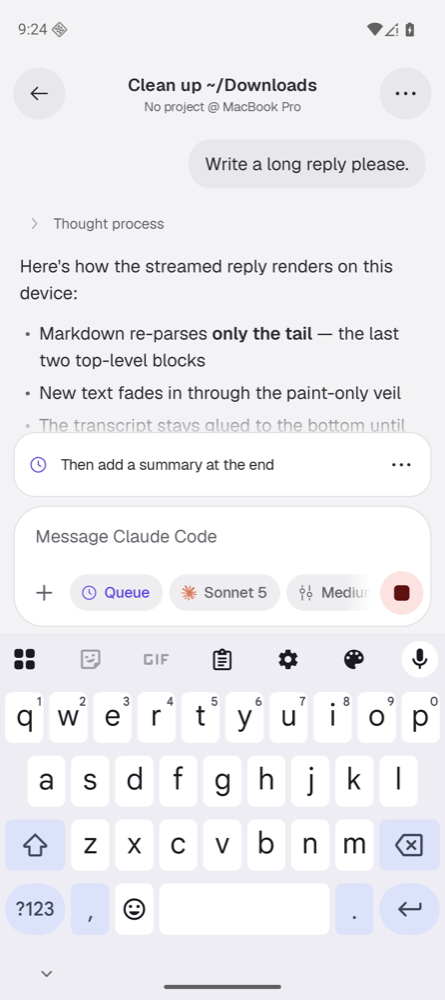
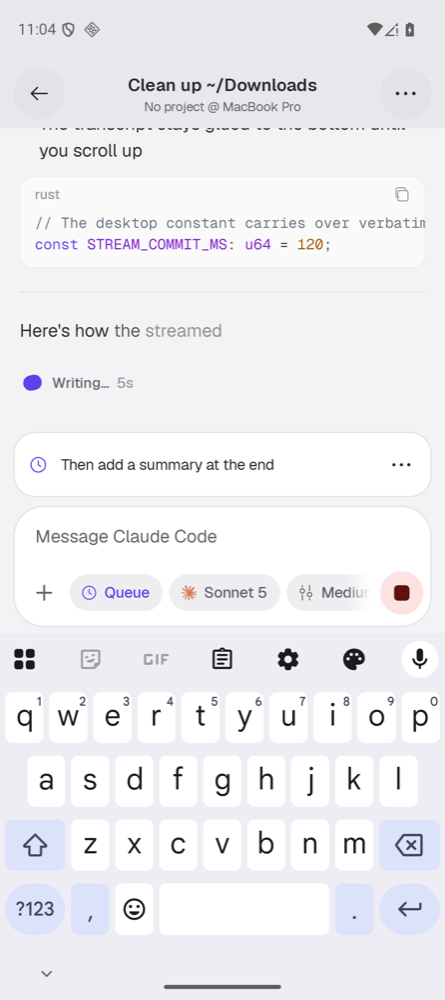
Android: flat session chrome, per-chunk streaming veil
- The transcript ends where the composer begins: no gradient scrim, no
  text streaming behind the composer (the runway's viewport was the full
  height, so reply tails ran under it, faded and cramped).
- Header is a flat Material top app bar that takes the container tone
  once content scrolls under it, instead of a gradient cut-off.
- Jump to latest is a small FAB floating over the transcript.
- Streaming veil: each inserted chunk fades on its own clock, found by a
  prefix+suffix diff (list rows carry their bullet after the item text,
  so the old prefix check skipped the veil and words popped in); chunks
  are recorded during composition so new text is never drawn opaque
  first.

diff --git a/apps/android/app/src/main/java/sh/zeron/android/ui/SessionScreen.kt b/apps/android/app/src/main/java/sh/zeron/android/ui/SessionScreen.kt
@@ -10,6 +10,9 @@ import androidx.compose.animation.fadeOut
 import androidx.compose.animation.scaleIn
 import androidx.compose.animation.scaleOut
 import androidx.compose.foundation.layout.Box
+import androidx.compose.foundation.shape.CircleShape
+import androidx.compose.animation.animateColorAsState
+import sh.zeron.android.design.ZIcon
 import androidx.compose.foundation.layout.Row
 import androidx.compose.foundation.layout.WindowInsets
 import androidx.compose.foundation.layout.asPaddingValues
@@ -42,6 +45,8 @@ import androidx.compose.material3.MaterialTheme
 import androidx.compose.material3.ModalBottomSheet
 import androidx.compose.material3.Scaffold
 import androidx.compose.material3.SmallFloatingActionButton
+import androidx.compose.material3.Surface
+import androidx.compose.foundation.layout.size
 import androidx.compose.material3.Text
 import androidx.compose.material3.TopAppBar
 import androidx.compose.material3.TopAppBarDefaults
@@ -142,64 +147,61 @@ fun SessionScreen(model: AppModel, chatId: String, onBack: () -> Unit) {
     var overflow by remember { mutableStateOf(false) }
     val clipboard = LocalClipboardManager.current
 
-    Box(Modifier.fillMaxSize().background(MaterialTheme.colorScheme.background)) {
-        val density = LocalDensity.current
-        val top = WindowInsets.statusBars.asPaddingValues().calculateTopPadding() + 64.dp
-        Transcript(transcript, actions, Modifier.fillMaxSize().padding(top = top))
-        // Round tonal controls over a scrim, the title centered between them.
-        Row(
-            Modifier
-                .fillMaxWidth()
-                .background(Brush.verticalGradient(0.7f to MaterialTheme.colorScheme.background, 1f to Color.Transparent))
-                .statusBarsPadding()
-                .padding(horizontal = 12.dp, vertical = 8.dp),
-            verticalAlignment = Alignment.CenterVertically,
-        ) {
-            TonalCircleButton(ZIcons.Back, "Back", onClick = onBack)
-            Column(Modifier.weight(1f).padding(horizontal = 12.dp), horizontalAlignment = Alignment.CenterHorizontally) {
-                Text(composer.title, maxLines = 1, overflow = TextOverflow.Ellipsis, style = MaterialTheme.typography.titleMediumEmphasized)
-                Text(subtitle, maxLines = 1, overflow = TextOverflow.Ellipsis, style = MaterialTheme.typography.bodySmall, color = MaterialTheme.colorScheme.onSurfaceVariant)
-            }
-            Box {
-                TonalCircleButton(ZIcons.More, "More", onClick = { overflow = true })
-                ActionMenu(
-                    overflow,
-                    { overflow = false },
-                    listOfNotNull(
-                        MenuAction("Copy transcript", ZIcons.Copy) { transcript.frame?.let { clipboard.setText(AnnotatedString(it.plainText())) } },
-                        row?.let { r -> MenuAction(if (r.pinned) "Unpin" else "Pin", ZIcons.Pin) { model.setPinned(chatId, !r.pinned) } },
-                        row?.let { MenuAction("Archive", ZIcons.Archive) { model.archive(chatId); onBack() } },
-                    ),
-                )
+    // Flat Material chrome: the header sits on the page and takes the
+    // container tone once the transcript scrolls under it; the transcript
+    // ends where the composer begins (nothing streams behind it).
+    val scrolled by remember { derivedStateOf { transcript.offset > 1f } }
+    val headerColor by animateColorAsState(
+        if (scrolled) MaterialTheme.colorScheme.surfaceContainerHigh else MaterialTheme.colorScheme.background,
+        MaterialTheme.motionScheme.defaultEffectsSpec(),
+        label = "header",
+    )
+    Column(Modifier.fillMaxSize().background(MaterialTheme.colorScheme.background)) {
+        Surface(color = headerColor) {
+            Row(
+                Modifier
+                    .fillMaxWidth()
+                    .statusBarsPadding()
+                    .padding(horizontal = 12.dp, vertical = 8.dp),
+                verticalAlignment = Alignment.CenterVertically,
+            ) {
+                TonalCircleButton(ZIcons.Back, "Back", onClick = onBack, container = MaterialTheme.colorScheme.surfaceContainerHighest)
+                Column(Modifier.weight(1f).padding(horizontal = 12.dp), horizontalAlignment = Alignment.CenterHorizontally) {
+                    Text(composer.title, maxLines = 1, overflow = TextOverflow.Ellipsis, style = MaterialTheme.typography.titleMediumEmphasized)
+                    Text(subtitle, maxLines = 1, overflow = TextOverflow.Ellipsis, style = MaterialTheme.typography.bodySmall, color = MaterialTheme.colorScheme.onSurfaceVariant)
+                }
+                Box {
+                    TonalCircleButton(ZIcons.More, "More", onClick = { overflow = true }, container = MaterialTheme.colorScheme.surfaceContainerHighest)
+                    ActionMenu(
+                        overflow,
+                        { overflow = false },
+                        listOfNotNull(
+                            MenuAction("Copy transcript", ZIcons.Copy) { transcript.frame?.let { clipboard.setText(AnnotatedString(it.plainText())) } },
+                            row?.let { r -> MenuAction(if (r.pinned) "Unpin" else "Pin", ZIcons.Pin) { model.setPinned(chatId, !r.pinned) } },
+                            row?.let { MenuAction("Archive", ZIcons.Archive) { model.archive(chatId); onBack() } },
+                        ),
+                    )
+                }
             }
         }
-        val bg = MaterialTheme.colorScheme.background
-        Column(
-            Modifier
-                .align(Alignment.BottomCenter)
-                .fillMaxWidth()
-                // The transcript fades out over a short band, then the chrome sits on solid background.
-                .drawBehind {
-                    val band = 28.dp.toPx()
-                    drawRect(Brush.verticalGradient(listOf(Color.Transparent, bg), startY = 0f, endY = band))
-                    drawRect(bg, topLeft = androidx.compose.ui.geometry.Offset(0f, band), size = androidx.compose.ui.geometry.Size(size.width, size.height - band))
-                }
-                .padding(top = 20.dp)
-                .imePadding()
-                .navigationBarsPadding()
-                .onSizeChanged { transcript.bottomInset = with(density) { it.height.toDp().value } + 8f },
-        ) {
+        Box(Modifier.weight(1f).fillMaxWidth()) {
+            Transcript(transcript, actions, Modifier.fillMaxSize())
             val showJump by remember { derivedStateOf { !transcript.following && transcript.distanceFromBottom > 400f } }
-            Box(Modifier.fillMaxWidth()) {
-                androidx.compose.animation.AnimatedVisibility(
-                    showJump,
-                    enter = fadeIn() + scaleIn(),
-                    exit = fadeOut() + scaleOut(),
-                    modifier = Modifier.align(Alignment.Center).padding(bottom = 8.dp),
-                ) {
-                    TonalCircleButton(ZIcons.ArrowDown, "Jump to latest", onClick = { transcript.scrollToBottom() }, size = 44.dp)
-                }
+            androidx.compose.animation.AnimatedVisibility(
+                showJump,
+                enter = fadeIn() + scaleIn(),
+                exit = fadeOut() + scaleOut(),
+                modifier = Modifier.align(Alignment.BottomCenter).padding(bottom = 12.dp),
+            ) {
+                SmallFloatingActionButton(
+                    onClick = { transcript.scrollToBottom() },
+                    shape = CircleShape,
+                    containerColor = MaterialTheme.colorScheme.surfaceContainerHigh,
+                    contentColor = MaterialTheme.colorScheme.onSurface,
+                ) { ZIcon(ZIcons.ArrowDown, "Jump to latest", Modifier.size(22.dp)) }
             }
+        }
+        Column(Modifier.fillMaxWidth().imePadding().navigationBarsPadding()) {
             Banner(composer, connectivity?.state, onRetry = { runCatching { handle.retryDelivery() } })
             composer.openInput?.let { QuestionPanel(it) { answers -> runCatching { handle.respondInput(it.requestId, answers) } } }
             Composer(model, core, handle, composer, row, transcript)

diff --git a/apps/android/app/src/main/java/sh/zeron/android/transcript/Transcript.kt b/apps/android/app/src/main/java/sh/zeron/android/transcript/Transcript.kt
@@ -34,6 +34,7 @@ import androidx.compose.runtime.derivedStateOf
 import androidx.compose.runtime.getValue
 import androidx.compose.runtime.key
 import androidx.compose.runtime.mutableStateOf
+import androidx.compose.runtime.mutableLongStateOf
 import androidx.compose.runtime.remember
 import androidx.compose.runtime.setValue
 import androidx.compose.runtime.snapshotFlow
@@ -215,20 +216,17 @@ private fun RowHost(
     val d = LocalDensity.current.density
     val fonts = state.fonts
 
-    // Streaming veil: freshly appended text fades in over the settled row.
-    val veil = remember(p.key) { Animatable(1f) }
-    var veilFrom by remember(p.key) { mutableStateOf(0) }
-    var previous by remember(p.key) { mutableStateOf<RowModel?>(null) }
+    // Streaming veil: each appended chunk fades in on its own clock, so a
+    // new token never restarts (or pops) the ones still fading. Chunks are
+    // recorded during composition — before the new text is ever drawn.
+    val veil = remember(p.key) { Veil() }
+    remember(model) { veil.grow(model); Unit }
+    val clock = remember(p.key) { mutableLongStateOf(0L) }
     LaunchedEffect(model) {
-        val prev = previous
-        previous = model
-        if (prev != null && prev !== model && model.display.text.length > prev.display.text.length &&
-            model.display.text.startsWith(prev.display.text)
-        ) {
-            veilFrom = prev.display.text.length
-            veil.snapTo(0f)
-            veil.animateTo(1f, tween(220))
+        while (veil.active(System.nanoTime())) {
+            withFrameNanos { clock.longValue = it }
         }
+        clock.longValue = System.nanoTime()
     }
 
     // Rows that arrive after the first frame fade in.
@@ -243,18 +241,8 @@ private fun RowHost(
             .clipToBounds()
             .graphicsLayer { alpha = appear.value }
             .drawBehind {
-                drawIntoCanvas { c ->
-                    val canvas = c.nativeCanvas
-                    val v = veil.value
-                    if (v >= 1f) {
-                        model.draw(canvas, 0, d, fonts, palette)
-                    } else {
-                        model.draw(canvas, 0, d, fonts, palette, RowModel.Pass.Settled(veilFrom))
-                        val save = canvas.saveLayerAlpha(null, (v * 255).toInt())
-                        model.draw(canvas, 0, d, fonts, palette, RowModel.Pass.Fresh(veilFrom))
-                        canvas.restoreToCount(save)
-                    }
-                }
+                clock.longValue // redraw on every veil frame
+                drawIntoCanvas { c -> veil.draw(c.nativeCanvas, model, d, fonts, palette, System.nanoTime()) }
             }
             .pointerTaps(model, d, actions, onLongPress = {
                 haptics.performHapticFeedback(HapticFeedbackType.LongPress)
@@ -323,5 +311,81 @@ private fun RowMenu(
                 if (selectable.isNotEmpty()) sh.zeron.android.ui.MenuAction("Select text", ZIcons.Text) { actions.showText("Select text", selectable, false) } else null,
             ),
         )
+    }
+}
+
+/**
+ * Fade-in bookkeeping for one streaming row: each inserted chunk of text
+ * (UTF-16 `[from, to)`) with its start time. Chunks come from a prefix +
+ * suffix diff, not a prefix check: list rows carry their bullet after the
+ * item text, so streamed words land *before* the row's tail.
+ */
+private class Veil {
+    private class Chunk(var from: Int, var to: Int, val started: Long)
+
+    private var last: RowModel? = null
+    private val chunks = ArrayList<Chunk>()
+
+    fun grow(model: RowModel) {
+        val prev = last
+        last = model
+        if (prev == null || prev === model) return
+        val old = prev.display.text
+        val new = model.display.text
+        val delta = new.length - old.length
+        if (delta <= 0) {
+            chunks.clear()
+            return
+        }
+        var p = 0
+        val max = old.length
+        while (p < max && old[p] == new[p]) p++
+        var sfx = 0
+        while (sfx < max - p && old[old.length - 1 - sfx] == new[new.length - 1 - sfx]) sfx++
+        if (new.length - p - sfx != delta) {
+            // More than an insertion (the block was re-flowed): show it as is.
+            chunks.clear()
+            return
+        }
+        for (c in chunks) {
+            if (c.from >= p) {
+                c.from += delta
+                c.to += delta
+            }
+        }
+        chunks.add(Chunk(p, p + delta, System.nanoTime()))
+        chunks.sortBy { it.from }
+    }
+
+    fun active(now: Long): Boolean {
+        chunks.removeAll { now - it.started >= DURATION }
+        return chunks.isNotEmpty()
+    }
+
+    fun draw(canvas: android.graphics.Canvas, model: RowModel, d: Float, fonts: StyleFonts, palette: sh.zeron.android.design.TranscriptPalette, now: Long) {
+        val live = chunks.filter { now - it.started < DURATION }
+        if (live.isEmpty()) {
+            model.draw(canvas, 0, d, fonts, palette)
+            return
+        }
+        model.draw(canvas, 0, d, fonts, palette, RowModel.Pass.Chrome)
+        // Settled text: everything between the fading chunks.
+        var cursor = 0
+        for (c in live) {
+            if (c.from > cursor) model.draw(canvas, 0, d, fonts, palette, RowModel.Pass.Range(cursor, c.from))
+            cursor = maxOf(cursor, c.to)
+        }
+        model.draw(canvas, 0, d, fonts, palette, RowModel.Pass.Range(cursor, Int.MAX_VALUE))
+        for (c in live) {
+            val t = ((now - c.started).toFloat() / DURATION).coerceIn(0f, 1f)
+            val alpha = 1f - (1f - t) * (1f - t) // ease-out
+            val save = canvas.saveLayerAlpha(null, (alpha * 255).toInt())
+            model.draw(canvas, 0, d, fonts, palette, RowModel.Pass.Range(c.from, c.to))
+            canvas.restoreToCount(save)
+        }
+    }
+
+    companion object {
+        const val DURATION = 220_000_000L
     }
 }

diff --git a/apps/android/app/src/main/java/sh/zeron/android/transcript/RowModel.kt b/apps/android/app/src/main/java/sh/zeron/android/transcript/RowModel.kt
@@ -79,8 +79,10 @@ class RowModel(val display: RowDisplay) {
     /** Which runs to paint: `veilFrom` splits a streaming row into settled and fresh text. */
     sealed interface Pass {
         data object All : Pass
-        data class Settled(val veilFrom: Int) : Pass
-        data class Fresh(val veilFrom: Int) : Pass
+        /** Only text in `[from, to)` (UTF-16), clipped at glyph edges; no boxes or fades. */
+        data class Range(val from: Int, val to: Int) : Pass
+        /** Boxes and overflow fades only (the text is drawn by ranges). */
+        data object Chrome : Pass
     }
 
     private val fill = Paint(Paint.ANTI_ALIAS_FLAG)
@@ -91,7 +93,7 @@ class RowModel(val display: RowDisplay) {
     /** Paint one layer in its own coordinates (dp × `d` = px). */
     fun draw(canvas: Canvas, layer: Int, d: Float, fonts: StyleFonts, palette: TranscriptPalette, pass: Pass = Pass.All) {
         val hairline = 1f
-        if (pass !is Pass.Fresh) {
+        if (pass !is Pass.Range) {
             for (i in boxesByLayer[layer]) {
                 val b = display.boxes[i]
                 rect.set(b.x * d, b.y * d, (b.x + b.w) * d, (b.y + b.h) * d)
@@ -116,32 +118,26 @@ class RowModel(val display: RowDisplay) {
             val run = display.runs[i]
             val start = run.start.toInt()
             val end = start + run.len.toInt()
+            val (from, to) = when (pass) {
+                Pass.All -> 0 to Int.MAX_VALUE
+                is Pass.Range -> pass.from to pass.to
+                Pass.Chrome -> break
+            }
+            if (end <= from || start >= to) continue
             var clipped = false
-            when (pass) {
-                Pass.All -> Unit
-                is Pass.Settled -> {
-                    if (start >= pass.veilFrom) continue
-                    if (end > pass.veilFrom) {
-                        val dx = fonts[run.style]?.getRunAdvance(display.text, start, end, start, end, false, pass.veilFrom) ?: 0f
-                        canvas.save()
-                        canvas.clipRect(run.x * d, -1e5f, run.x * d + dx, 1e5f)
-                        clipped = true
-                    }
-                }
-                is Pass.Fresh -> {
-                    if (end <= pass.veilFrom) continue
-                    if (start < pass.veilFrom) {
-                        val dx = fonts[run.style]?.getRunAdvance(display.text, start, end, start, end, false, pass.veilFrom) ?: 0f
-                        canvas.save()
-                        canvas.clipRect(run.x * d + dx, -1e5f, 1e5f, 1e5f)
-                        clipped = true
-                    }
-                }
+            if (start < from || end > to) {
+                val paint = fonts[run.style]
+                fun dx(at: Int) = paint?.getRunAdvance(display.text, start, end, start, end, false, at) ?: 0f
+                val left = if (start < from) run.x * d + dx(from) else -1e5f
+                val right = if (end > to) run.x * d + dx(to) else 1e5f
+                canvas.save()
+                canvas.clipRect(left, -1e5f, right, 1e5f)
+                clipped = true
             }
             drawRun(canvas, i, d, fonts, palette)
             if (clipped) canvas.restore()
         }
-        if (pass !is Pass.Fresh) drawFades(canvas, layer, d, fonts, palette)
+        if (pass !is Pass.Range) drawFades(canvas, layer, d, fonts, palette)
     }
 
     private fun drawRun(canvas: Canvas, i: Int, d: Float, fonts: StyleFonts, palette: TranscriptPalette, color: Int? = null) {

diff --git a/apps/android/app/src/main/java/sh/zeron/android/transcript/TranscriptState.kt b/apps/android/app/src/main/java/sh/zeron/android/transcript/TranscriptState.kt
@@ -41,8 +41,8 @@ class TranscriptState {
     /** Scroll offset in dp (0 = top of the content). */
     var offset by mutableFloatStateOf(0f)
     var viewport by mutableFloatStateOf(0f)
-    /** Space the composer covers at the bottom (dp). */
-    var bottomInset by mutableFloatStateOf(0f)
+    /** Breathing room below the last row, on top of the frame's own (dp). */
+    var bottomInset by mutableFloatStateOf(12f)
     var following by mutableStateOf(true)
     var dragging by mutableStateOf(false)
     val fonts = StyleFonts()
